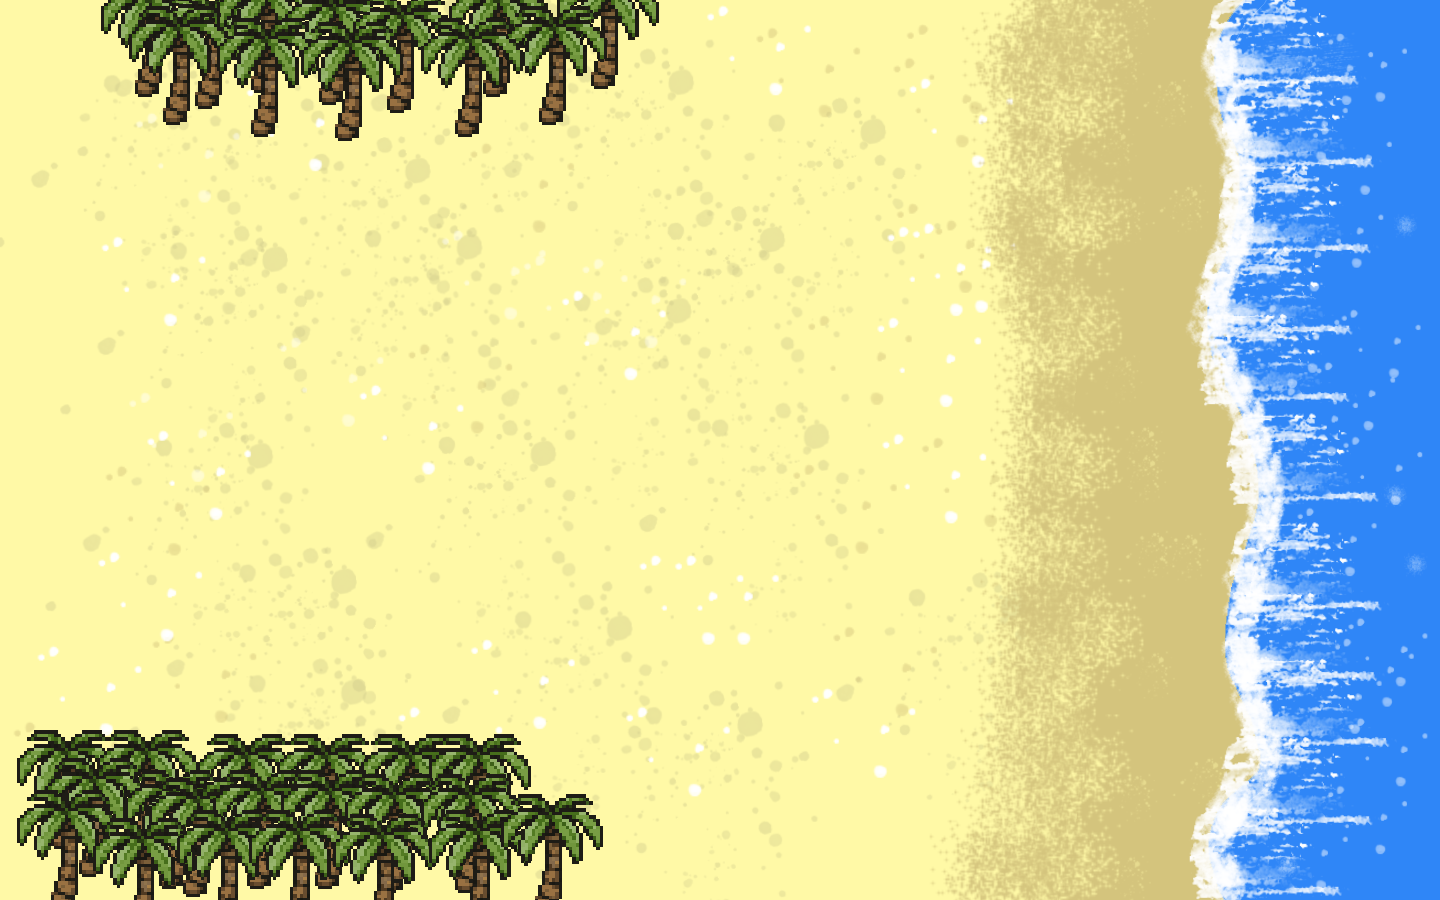
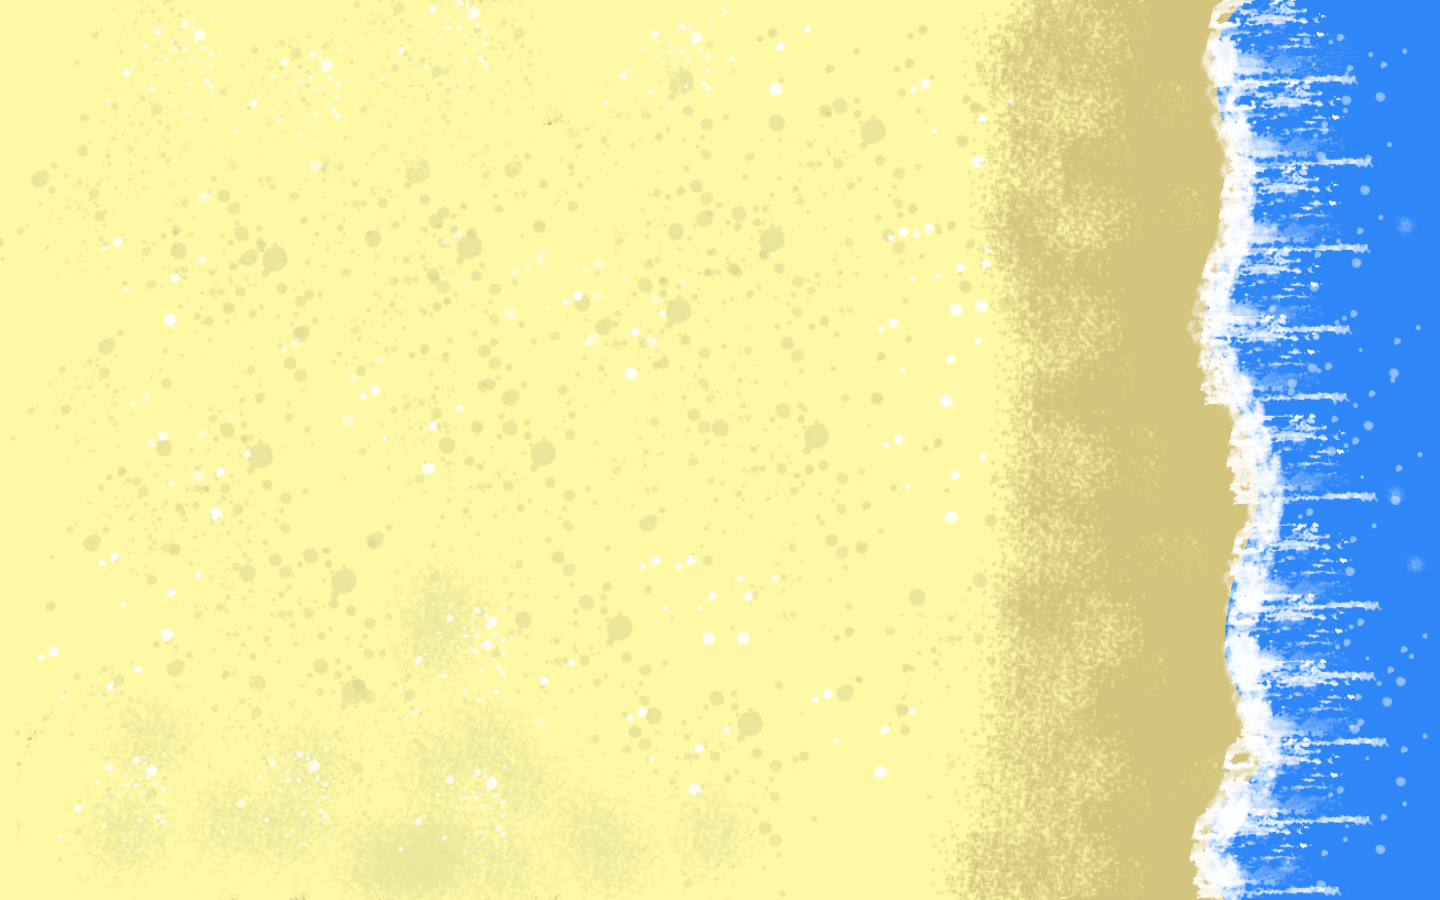
added more enemies + adjusted textures

Changed region(s): [[0.0, 0.8089, 0.4375, 1.0], [0.0625, 0.0, 0.5, 0.1556], [0.3125, 0.6844, 0.3438, 0.7156]]

diff --git a/SeeShells/src/Game.cpp b/SeeShells/src/Game.cpp
@@ -418,13 +418,13 @@ void Game::spawnEnemies()
 	for (int i = 0; i < NUM_OF_BIRDS; i++)
 	{
 		float posx = rand() % 1050 + 150;
-		float posy = rand() % 750 + 150;
+		float posy = rand() % 700 + 100;
 		m_birds.emplace_back(m_assetManager, sf::Vector2f{ posx,posy });
 	}
 	for (int i = 0; i < NUM_OF_CRABS; i++)
 	{
 		float posx = rand() % 1050 + 150;
-		float posy = rand() % 750 + 150;
+		float posy = rand() % 700 + 100;
 		m_crabs.emplace_back(m_assetManager, m_spatialMap, sf::Vector2f{ posx,posy });
 	}
 }

diff --git a/SeeShells/src/Turtle.cpp b/SeeShells/src/Turtle.cpp
@@ -128,7 +128,7 @@ void Turtle::manageScent()
 	circle.setRadius(25.0f);
 	circle.setPosition(m_body.getPosition());
 	circle.setOrigin(m_body.getOrigin());
-	circle.setFillColor(sf::Color::Blue);
+	circle.setFillColor(sf::Color(152,110,82,80));
 
 	scent.m_circle = circle;
 	scent.m_timer.start();

diff --git a/SeeShells/include/Game.h b/SeeShells/include/Game.h
@@ -141,8 +141,8 @@ protected:
 
 	Turtle m_turtle;
 
-	const int NUM_OF_BIRDS = 2;
-	const int NUM_OF_CRABS = 4;
+	const int NUM_OF_BIRDS = 3;
+	const int NUM_OF_CRABS = 5;
 
 	std::vector<Bird> m_birds;
 	std::vector<Crab> m_crabs;
